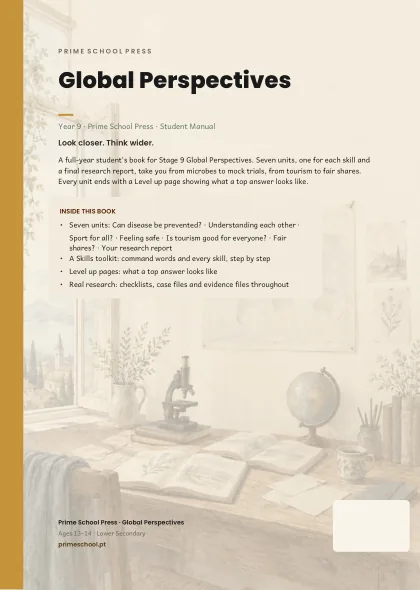
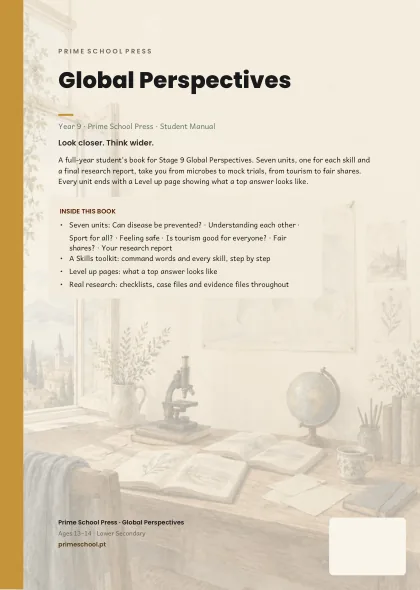
fix(bookvault): build Year 9 Global Perspectives at its A4 trim; move the back barcode plate through the A4 fit
The y09 GP master is an exact A4+bleed canvas (216 x 303), but its pack was
built at US Letter: that fit centre-cropped 11 mm off the top and bottom and
raised the front block ~11 mm on the teacher's BookVault preview (bands 8.1 /
15.7 / 26.6 mm against the shelf's 18.8 / 37.1 / 64.6), and the Letter text
media over-ran the master's pages by 18 mm. Added to A4_TITLE_BOOKS, so on
every path -- the site's Build button, the wrap sweep, build_all, the CLI --
it now builds at 210 x 297 with the staged 4n-1 interior (175 pp), exactly
like the Portuguese twins. Front bands now 18.8 / 37.1 / 64.6, level with
y08 GP and the twin.

The back-cover barcode plate on the master's back page (two rounded-rect
streams, xrefs 627/638) was placed for the old Letter fit; translated in
place by (-1.9, +9.05) mm so the A4 fit lands it over BookVault's reserved
box plus margins. 'Barcode area clear on the back cover' passes again ('is
empty', ink 0.0; was 42% covered).

Previews and the upload sheet regenerated. The title's size on bookvault.app
must read 210 x 297 (the sheet says so on the page); the two remaining FAIL
rows are master-side (the text design sits 14.0 mm off the binding; the
twins' accepted class is 13.6-13.8) and move no content.

Also carries the y08 twin's BookVault spec fields saved from the site.

Changed region(s): [[0.7738, 0.8237, 0.9905, 0.9763]]

diff --git a/tools/make_bookvault_files.py b/tools/make_bookvault_files.py
@@ -127,21 +127,24 @@ SPINE_PER_PAGE_MM = 0.056  # guide p.18: 100 pages on 80 gsm bond = 5.6 mm
 PAGES_MODULO = 12          # guide p.5: "one less than a divisible of 12"
 
 # ---- Books whose BookVault TITLE declares 210 x 297 mm (A4), not the US
-# Letter trim this file is built around. Both Portuguese 1st-edition twins
-# (y07/y08) are A4 masters and their titles are A4: forcing them onto the
-# Letter trim cropped ~9 mm off top and bottom, shifted the artwork 10.8 mm
-# sideways and left transparency on 30 pages (caught on the teacher's upload).
-# So for these slugs the pack is placed 1:1 on their own trim -- no Letter
-# crop, no edge-strip fill -- and the interior is staged to 4n-1 pages (the
-# help-centre count rule above US Royal): one blank flyleaf before p.2, so odd
-# folios print on rectos as designed, and blank end leaves so their production
-# barcode lands on a blank last page. The site's Build button, the wrap sweep
-# and build_all all run THIS script, so the recipe lives here: every path
-# builds these books correctly, and every other book still takes the stock
-# Letter path, unchanged.
+# Letter trim this file is built around. The Portuguese 1st-edition twins
+# (y07/y08) and the Year 9 Global Perspectives book are A4 masters: forcing
+# them onto the Letter trim cropped ~9 mm off top and bottom and shifted the
+# artwork (caught on the teacher's upload); the y09 GP master is an exact
+# A4+bleed canvas (216 x 303), so the Letter pack centre-cropped 11 mm and
+# raised its front block ~11 mm off the shelf on the teacher's BookVault
+# preview. So for these slugs the pack is placed 1:1 on their own trim -- no
+# Letter crop, no edge-strip fill -- and the interior is staged to 4n-1 pages
+# (the help-centre count rule above US Royal): one blank flyleaf before p.2,
+# so odd folios print on rectos as designed, and blank end leaves so their
+# production barcode lands on a blank last page. The site's Build button, the
+# wrap sweep and build_all all run THIS script, so the recipe lives here:
+# every path builds these books correctly, and every other book still takes
+# the stock Letter path, unchanged.
 A4_TITLE_BOOKS: dict[str, dict] = {
     "y07-portuguese-1st-anthropic": {"trim_mm": (210.0, 297.0), "stage": True},
     "y08-portuguese-1st-anthropic": {"trim_mm": (210.0, 297.0), "stage": True},
+    "y09-global-perspectives": {"trim_mm": (210.0, 297.0), "stage": True},
 }
 
 TRIM_W = TRIM_W_MM * PT_PER_MM          # 612.28 pt (was 612: US Letter)
